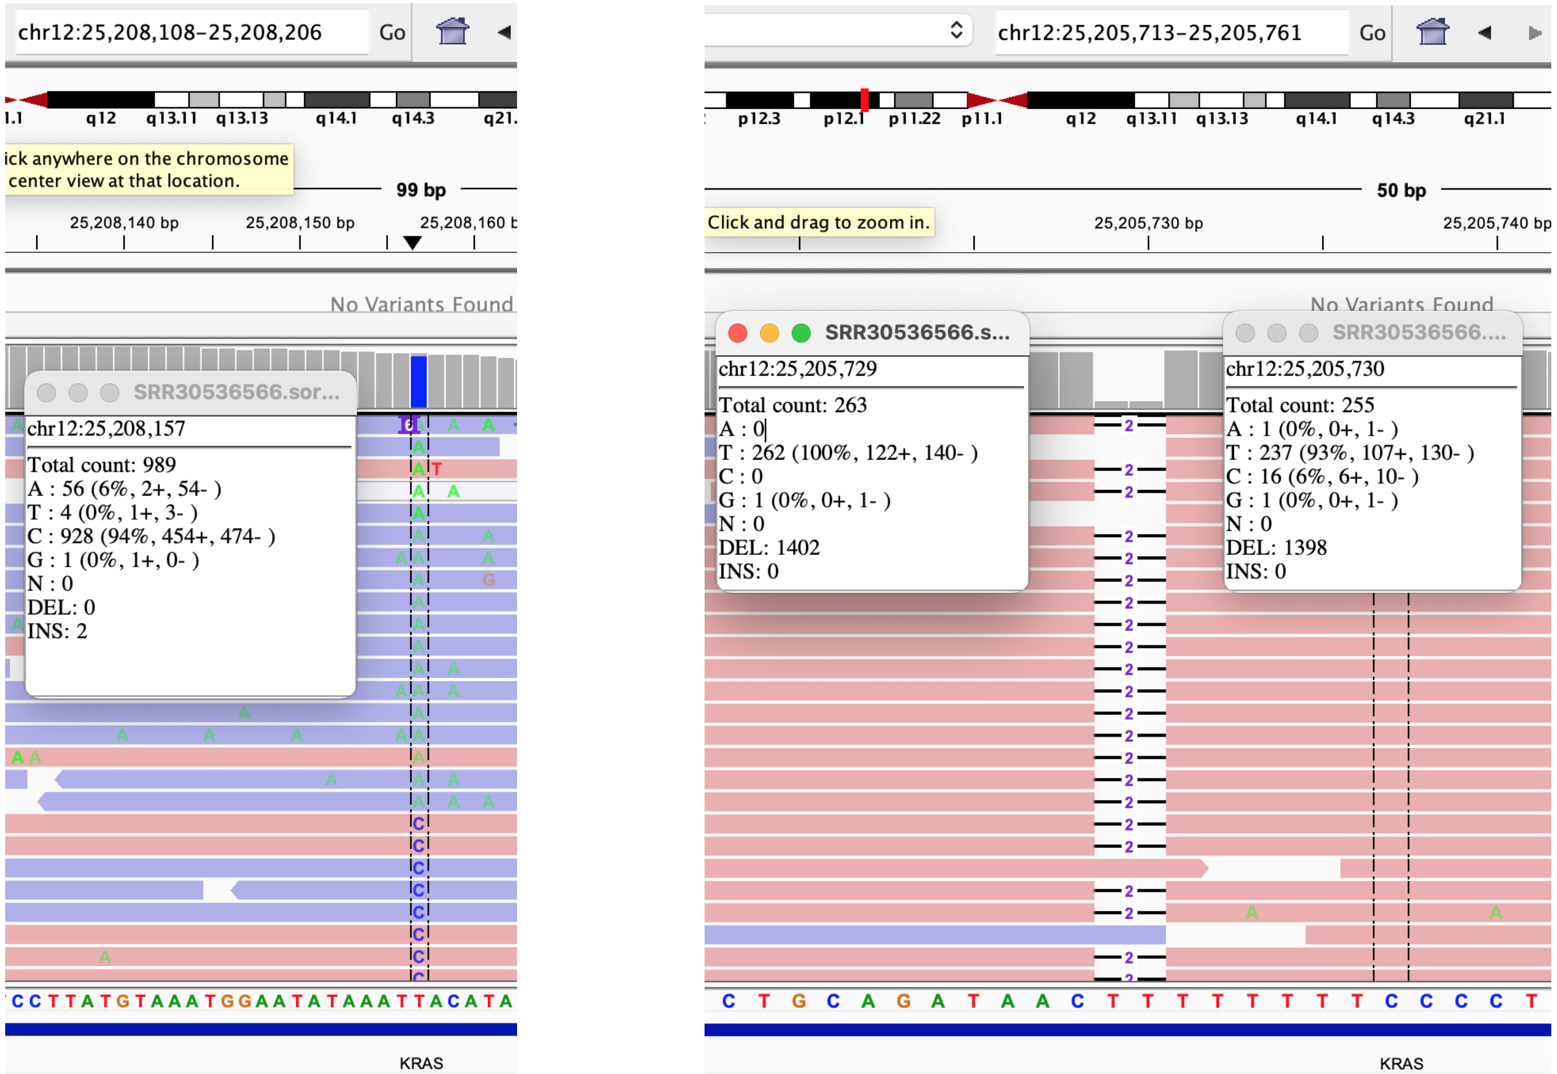
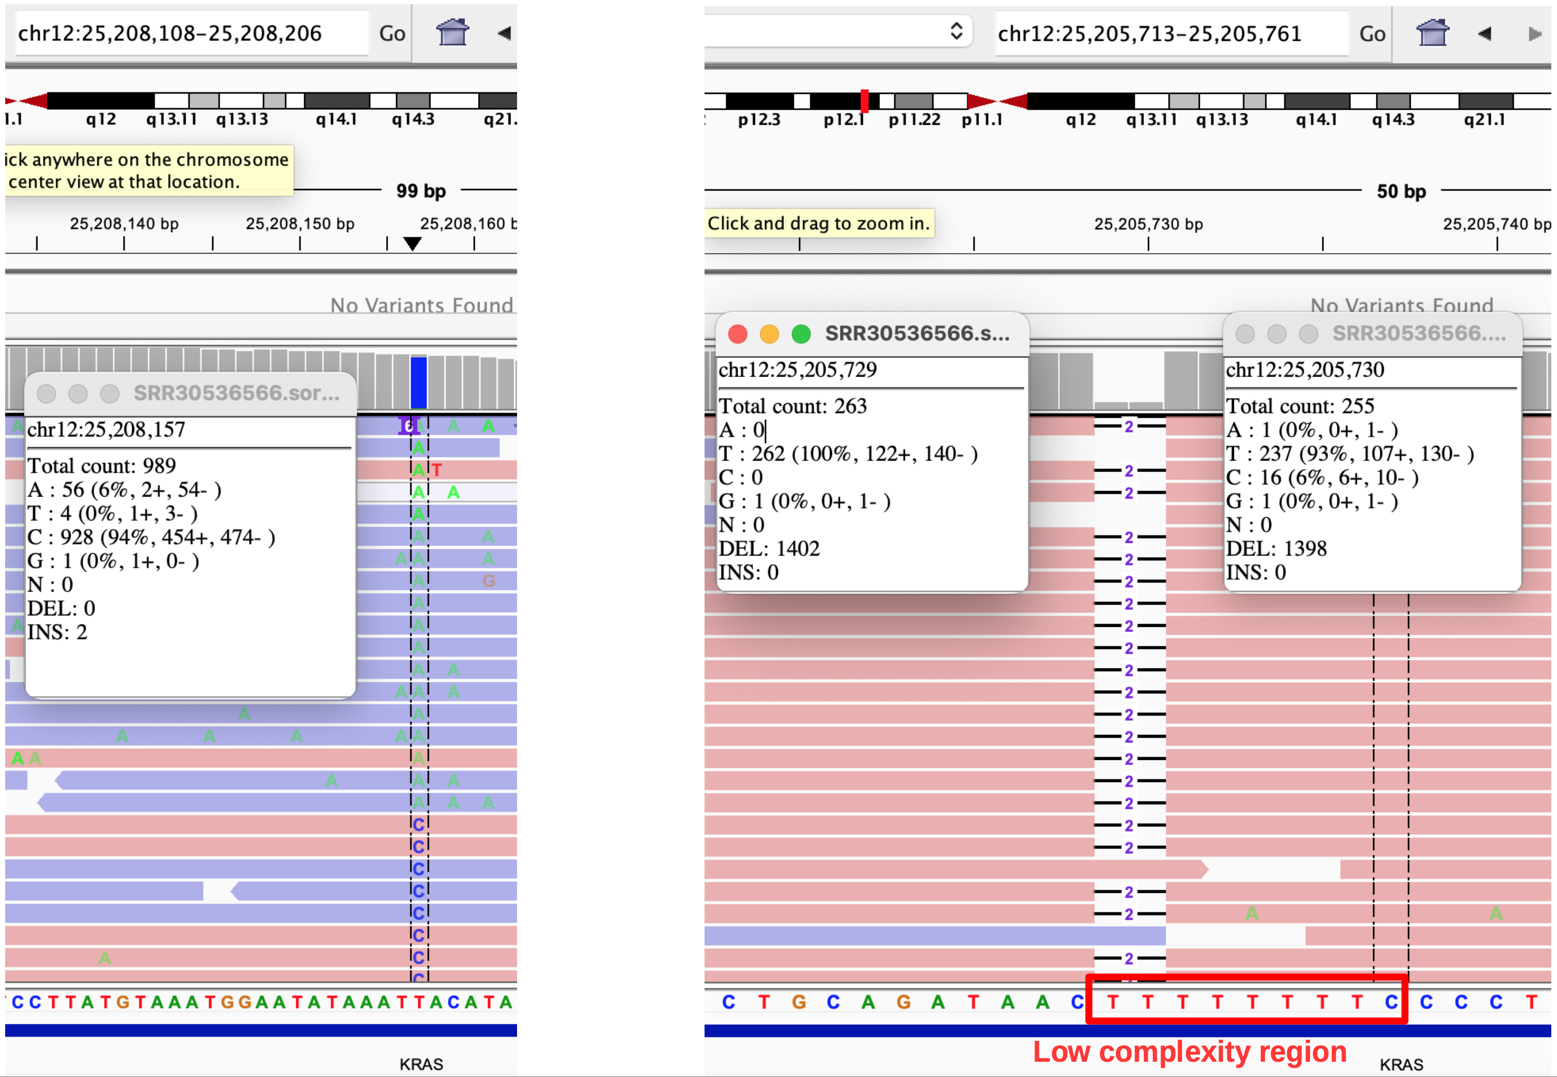
5Feb_followup6

diff --git a/README_igv_Part3-3.md b/README_igv_Part3-3.md
@@ -590,9 +590,9 @@ N : 0
 
 Observations:
 
-- G is the major allele: 563 reads (~61%)
-- C is the minor allele: 358 reads (~39%)
-- A and T are negligible noise (4 reads each)
+   - G is the major allele: 563 reads (~61%)
+   - C is the minor allele: 358 reads (~39%)
+   - A and T are negligible noise (4 reads each)
 
 This looks like a clean biallelic site (heterozygous), with: High depth, strong support for both alleles, balanced strand representation for both C and G.
 
@@ -627,7 +627,7 @@ Qualities: 41, 41, 41, 41, 41
 
 ![Figure 8](images/IGV_snp_germline_homopolymer_2.png)
 
-1. Left side: Is this a true clinical SNV in KRAS A/G?
+1. Left side: Is this a true clinical SNV in KRAS A>G?
 
 **Coverage Pop-Up information**
 ```bash
@@ -639,14 +639,18 @@ G : 1311 (100%)
 ```
 Observations:
 
-- Reference base = A
-- All reads show G
-- No homopolymer context
-- Looks like alt-homozygous (G/G)
+   - Reference base = A
+   - All reads show G
+   - No homopolymer context
+   - Looks like alt-homozygous (G/G)
 
->**Interpretation**: This is **almost certainly a germline SNP** because is ~100% alternate allele, extremely high depth, no strand bias, clean signal. Somatic mutations are almost never 100% unless: Tumor purity ~100%, LOH, copy-number events. In a targeted panel without a matched normal, Mutect2 penalizes variants that behave like germline haplotypes when uses population priors (gnomAD, internal models) and suppresses homozygous-alternate sites. Also, the reference condon, which is "TCA" encodes a "S" (serine) and in the alternative the condon changes to "TCG", which encodes also a "S". Conclusion, this is an alt-homozygous (G/G), which is a synonymic mutation. Clinically irrelevant.
+>**Two interpretations**:
+>
+> - This is **probably a germline SNP** because is ~100% alternate allele, extremely high depth, no strand bias, clean signal. Somatic mutations are almost never 100% unless: Tumor purity ~100%, LOH, copy-number events. In a targeted panel without a matched normal, Mutect2 penalizes variants that behave like germline haplotypes when uses population priors (gnomAD, internal models) and suppresses homozygous-alternate sites.
+>
+> - Since the SNP G/A lies withing the exon 5-6-7 but beyond the stop codon of exon 5, at 3'UTR (non-coding) region, this **mutation is clinically irrelevant**. It's a `3' UTR variant` with an IMPACT: MODIFIER.
 
-2. Right side: Is this a true clinical SNV in KRAS A/T?
+2. Right side: Is this a true clinical SNV in KRAS A>T?
 
 **Coverage Pop-Up information**
 ```bash
@@ -659,8 +663,8 @@ N : 0
 ```
 Observations:
 
-- Reference base: A (~90%)
-- Reads showing T: ~10%
+   - Reference base: A (~90%)
+   - Reads showing T: ~10%
 
 >**Interpretation**: Unfortunately, there are zero reverse reads supporting "T". Strand bias.
 
@@ -669,7 +673,7 @@ Observations:
 
 ##![Figure 9](images/IGV_strandbias_deletion1.png)
 
-1. Left side: Which SNV is a clinical one in KRAS: T/A or T/C?
+1. Left side: Which SNV is a clinical one in KRAS: T>A or T>C?
 
 **Coverage Pop-Up information**
 ```bash
@@ -685,7 +689,63 @@ INS: 2
 Observations:
 
 Strand distribution for A:
-    - 2 forward 
-    - 54 reverse ⟵ 🚨
+   - 2 forward 
+   - 54 reverse ⟵ 🚨
 
->**Interpretation**: **classic strand-specific artifact**. 
+>**Interpretation**: Alt allele is heaviy biased to one strand: **classic strand-specific artifact** probably because of sequencing/alignment artifact.
+>Also, there's a well supported T>C mutation from aligned reads forward and reverse; however, this mutation is located in the 3'UTR (non-coding) region. Clinically irrelevant.
+
+2. Right side: Is this a true deletion?
+
+**Coverage Pop-Up information**
+```bash
+Total count: 263
+A : 0
+T : 262 (100%, 122+, 140- )
+C : 0
+G : 1 (0%, 0+, 1- )
+N : 0
+DEL: 1402
+INS: 0
+```
+```bash
+Total count: 255
+A : 1 (0%, 0+, 1- )
+T : 237 (93%, 107+, 130- )
+C : 16 (6%, 6+, 10- )
+G : 1 (0%, 0+, 1- )
+N : 0
+DEL: 1398
+INS: 0
+```
+
+Observations:
+
+   - Reference region: `AACTTTTTTTTCCC` → homopolymer region
+   - Forward + reverse support
+   
+>**Interpretation:  Homopolymer indels are not trustworthy without: 
+>
+>   - Orthogonal validation
+>
+>   - Long-read data
+>
+>   - Known hotspot annotation
+>
+> This indel was not called because of ❌ Low-complexity region; ❌ Indel ambiguity ; ❌ High false-positive rate class    → **Conclusion**: Alignment artifact, correctly filtered.
+
+### **Problem 4 - Figure 10** 
+
+##![Figure 10](images/IGV_lowcomplreg_3.png)
+
+1. Is this a true insertion of two AA?
+
+**Coverage Pop-Up information**
+```bash
+Insertion (2 bases): AA
+Qualities: 41, 41
+```
+
+>**Interpretation**: Insertion of two As in low-complexity region of As. **Conclusion**: This insertion is not trustworthy.
+
+
